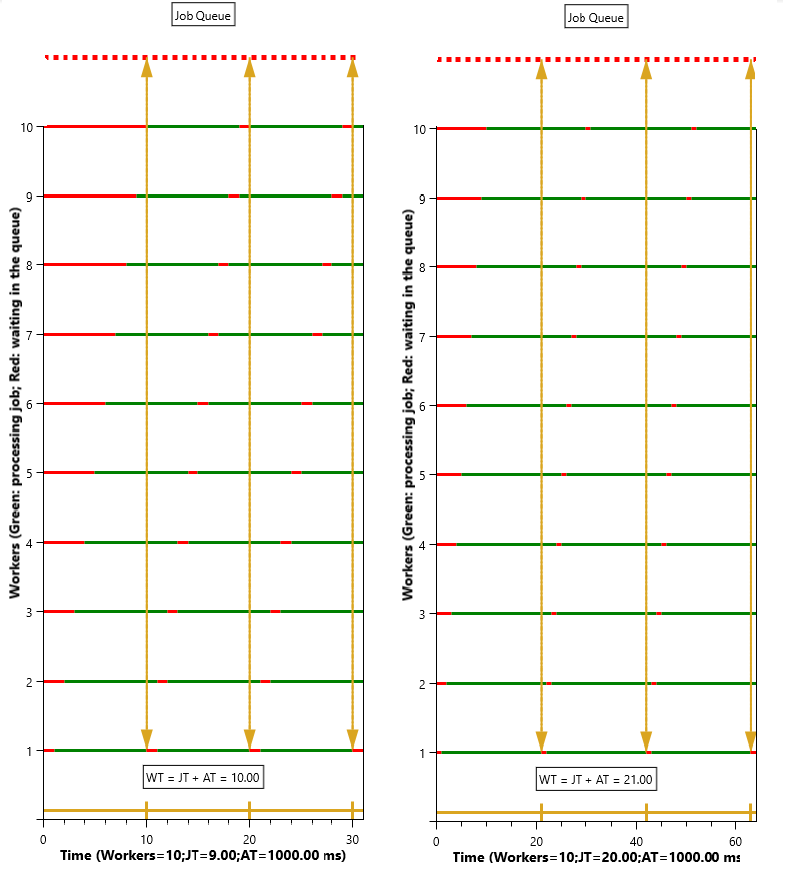
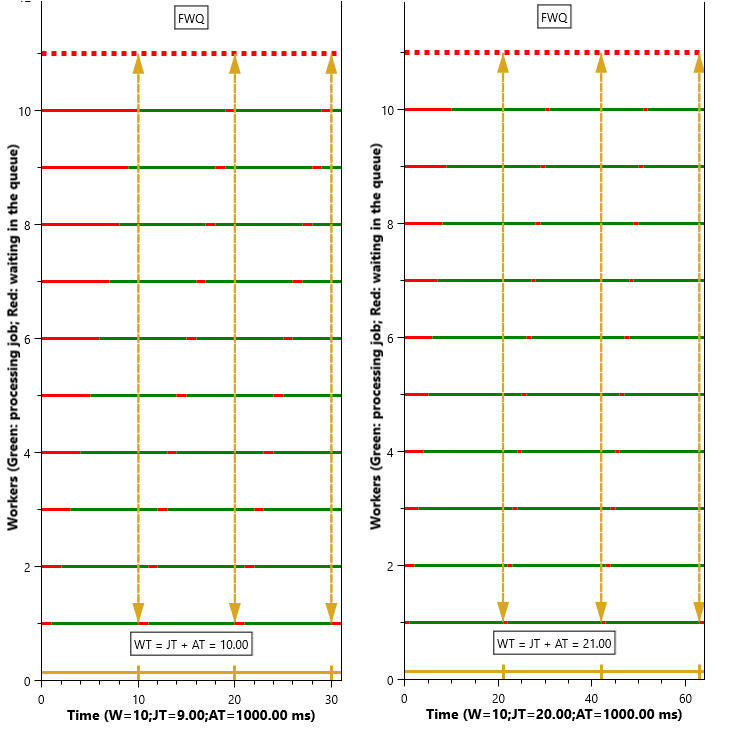
Finish WWT proofs

diff --git a/WRONJ/WRONJ/ViewModels/WRONJViewModel.cs b/WRONJ/WRONJ/ViewModels/WRONJViewModel.cs
@@ -514,7 +514,7 @@ namespace WRONJ.ViewModels
                 chart.Annotations.Add(
                     new TextAnnotation
                     {
-                        Text = "Job Queue",
+                        Text = "FWQ",
                         TextPosition = new DataPoint(maxX / 2, Workers + 1.5)
                     }
                 );

diff --git a/README.md b/README.md
@@ -13,10 +13,9 @@ In these cases, we may want to reduce the workload total time and improve the gr
 - [WRONJ Worker Time (WWT)](#wronj-worker-time-(wwt))
     - [WWT proof](#wwt-proof)
     - [WWT graphical proof (constant times)](#wwt-graphical-proof-(constant-times))
-- [More](#more)
 
 
-## WRONJ Conditions
+# WRONJ Conditions
 
  1. We have a grid with a number ***W*** of single-threaded worker processes (workers), all with the same computing power: they take the same time to compute the same job.
  1. The workload submitted to the grid is perfectly parallel.
@@ -24,46 +23,47 @@ In these cases, we may want to reduce the workload total time and improve the gr
  1. The grid uses another queue to manage the idle workers, the ***FWQ*** (Free Workers Queue). When a worker has finished its job, the grid add a reference of that worker to the end of the ***FWQ***.
  1. The ***JS*** (Job Scheduler) of the grid is a single-threaded process, that chooses the next job to execute from the ***JQ*** and assigns it to the first idle worker in the ***FWQ***. The ***at*** (assignment time) is the time it takes for the ***JS***  to complete this task for a job, and the ***AT*** (Assignment Time) is the average of all ***at*** in the workload.
  
- The ***at*** is made up of the scheduling algorithm time plus the time it takes to send the job data to the worker, probably over a network. A realistic set of values to these parameter would be ***AT***=1 millisecond for and ***w***=1000, but for the sake of clarity in most of the examples in this document we'll use a grid with only 10 workers and ***AT***=1 second, with a [FCFS](https://en.wikipedia.org/wiki/Scheduling_(computing)#First_come,_first_served) scheduling algorithm, like this one: 
+ The ***at*** is made up of the scheduling algorithm time plus the time it takes to send the job data to the worker, probably over a network. A realistic set of values to these parameter would be ***AT***=1 millisecond and ***W***=1000, but for the sake of clarity in most of the examples in this document we'll use a grid with only 10 workers and ***AT*** >= 100 milliseconds, with a [FCFS](https://en.wikipedia.org/wiki/Scheduling_(computing)#First_come,_first_served) scheduling algorithm, like this one: 
 
 ![alt text](https://raw.githubusercontent.com/jorgelasa/wronj/master/Images/beforeAssignment.png)
  
-In the samples, we'll use a different icon for each job, and a different color for each worker (ranging from red to blue). In the image above, we can see seven active workers computing a job, and three idle workers waiting for a job. The ***JS*** will now get the next job in the ***JS*** and assign it to the first worker in the ***FWQ*** (the orange one), making it an active worker:
+In the samples, we'll use a different icon for each job, and a different color for each worker (ranging from red to blue). In the image above, we can see seven active workers computing different jobs, and three idle workers waiting for a new job. The ***JS*** will now get the next job in the ***JS*** and assign it to the first worker in the ***FWQ*** (the orange one), making it an active worker:
 
 ![alt text](https://raw.githubusercontent.com/jorgelasa/wronj/master/Images/afterAssignment.png)
 
-The WRONJ problem occurs when there are active workers finishing its job at the time the ***JS*** is assigning a new job, so the ***FWQ*** will never be empty and the grid won't use 100% of its capacity, like this:
+The **WRONJ** problem occurs when there are active workers finishing its job at the time the ***JS*** is assigning a new job, so the ***FWQ*** will never be empty and the grid won't use 100% of its capacity, like this:
 
 ![alt text](https://raw.githubusercontent.com/jorgelasa/wronj/master/Images/finishJob.png)
 
 
-## Workload Definitions
+# Workload Definitions
  
-When we refer to times, we will use the same name to define individual and average times (using capital letters in the latter case):
+In some of the following concepts, we will use the same name to define individual and average values (using capital letters in the latter case):
 
  1. ***J*** : number of jobs in the workload.
- 1. ***FW*** : number of workers in the ***FWQ***.
- 1. ***AW*** : number of active workers: ***AW = W - FW***.
+ 1. ***fw*** (free workers): number of workers in the ***FWQ***.
+ 1. ***FW*** (Free Workers): average of all values of ***fw*** in the workload.
+ 1. ***aw*** (active workers): number of active workers: ***aw = W - fw***.
+ 1. ***AW*** (Active Workers): average of all values of ***aw*** in the workload: ***AW = W - FW***.
  1. ***jt*** (job time): computing time of a job in a worker.
- 1. ***fwqt*** (free worker queue time): time that the worker has been waiting in the ***FWQ*** until the ***JS*** assigned it a job. Its minimum value is ***at***
- 1. ***wt*** (worker time): time it takes a worker to process a job. It's ***wt = jt + fwqt***, so its minimum value is ***jt*** + ***at***.
- 1. ***JT*** (Job Time): average of all ***jt*** in the workload, 
+ 1. ***JT*** (Job Time): average of all ***jt*** in the workload. 
+ 1. ***fwqt*** (free worker queue time): time that the worker has been waiting in the ***FWQ*** until the ***JS*** assigned it a job. Its minimum value is ***at***.
  1. ***FWQT*** (Free Worker Queue  Time): average of all ***fwqt*** in the workload. Its minimum value is ***AT***.
+ 1. ***wt*** (worker time): time it takes a worker to process a job. It's ***wt = jt + fwqt***, so its minimum value is ***jt*** + ***at***.
  1. ***WT*** (Worker Time): average of all ***wt*** in the workload. ***WT = JT + FWQT*** and its minimum value is ***JT*** + ***AT***.
- 1. ***TT*** (Total Time): is the time it takes the grid to process all the jobs in the workload. When ***J*** >> ***W***, this time will be ***&#x2243; J*** * ***WT / W***.
+ 1. We'll say that ***the grid is full*** when ***J*** >> ***W***.
+ 1. ***TT*** (Total Time): is the time it takes the grid to process all the jobs in the workload. When the grid is full, this time will be ***&#x2243; J*** * ***WT / W***.
 
-We'll say that ***the grid is full*** when ***J*** >> ***W***.
 
+# Ideal grid vs WRONJ grid
 
-## Ideal grid vs WRONJ grid
+An ideal grid is one where ***at = 0***: all workers are always active when the grid is full. In such a grid, the equality ***WT = JT*** holds, and the total time of a workload will be ***&#x2243; J*** * ***JT / W***.
 
-An ideal grid is one where ***at = 0***: all workers are always active when the grid is full. In such a grid, the equality ***WT = JT*** holds, and the total time of a workload with ***J*** >> ***W*** will be ***&#x2243; J*** * ***JT / W***.
+A **WRONJ** grid is one that meets the [conditions](#wronj-conditions) above, with ***at > 0***. The ***WT*** in these grids has an odd behavior, as we are about to see.
 
-A WRONJ grid is one that meets the [conditions](#wronj-conditions) above, with ***at > 0***. The ***WT*** in these grids has an odd behavior, as we are about to see.
+# WRONJ Worker Time (WWT)
 
-## WRONJ Worker Time (WWT)
-
-The WRONJ problem is due to this dual value of ***WT*** in a WRONJ grid when it's full:
+The **WRONJ** problem is due to this dual value of ***WT*** in a **WRONJ** grid when it's full:
 
 1. If ***JT >= (W -1) * AT*** , then ***WT*** is approximately equal to its minimum value:
     - ***WT &#x2243; JT + AT***.
@@ -77,9 +77,9 @@ When the grid is full the total time of a workoad is ***TT&#x2243; J * WT / W***
 2. If ***JT < (W -1) * AT*** , then: 
     - ***TT &#x2243; J * AT*** 
 
-In a grid with a fixed number ***W*** of workers, the WRONJ problem occurs when the workload ***JT*** falls bellow this limit ***(W -1) * AT***. In fact, no matter how low ***JT*** may go, ***WT*** remains fixed at the value ***W * AT***.
+In a grid with a fixed number ***W*** of workers, the **WRONJ** problem occurs when the workload ***JT*** falls bellow this limit ***(W -1) * AT***. In fact, no matter how low ***JT*** may go, ***WT*** remains fixed at the value ***W * AT*** and ***TT*** remains fixed at ***J * AT***.
 
-The next chart shows ***WT*** as a function of ***JT***, in an ideal grid and in a WRONJ grid, both with 1000 workers. The ***AT*** value in the WRONJ grid is one millisecond. If ***JT*** is 1.5 seconds or is equal to 0.999 seconds (i.e. the limit value ***(W -1) * AT***), then ***WT*** in both grids is very similar. But when ***JT*** is 0.5 second, ***WT*** is twice as long in the WRONJ grid than in the ideal grid:
+The next chart shows ***WT*** as a function of ***JT***, in an ideal grid and in a **WRONJ** grid, both with 1000 workers. The ***AT*** value in the **WRONJ** grid is one millisecond. If ***JT*** is 1.5 seconds or is equal to 0.999 seconds (i.e. the limit value ***(W -1) * AT***), then ***WT*** in both grids is very similar. But when ***JT*** is 0.5 second, ***WT*** is twice as long in the **WRONJ** grid than in the ideal grid:
  
 
 ![alt text](https://raw.githubusercontent.com/jorgelasa/wronj/master/Images/JTLimit.png)
@@ -89,73 +89,95 @@ In a grid with a fixed value ***JT*** for the workloads, we'll flip the previous
 - If ***W*** <= ***JT / AT + 1*** , then ***WT &#x2243; JT + AT***.
 - If ***W*** > ***JT / AT + 1*** , then ***WT &#x2243; W * AT***. 
 
- The next chart shows the scalability problem with WRONJ grids. The workload has a million jobs where ***JT*** is a second and a half, the ***AT*** in the WRONJ grid is one millisecond, and we are increasing the number of workers: 1000, 1500, 2000. In this case the grid is full, so   and in the ideal grid, the total time is inversely proportional to ***W***. But in the WRONJ grid, once we reach the limit value of 1501 workers (***= JT / AT + 1***), the total time remains at the fixed value of 1000 seconds (***= JT * AT***):
+ The next chart shows the scalability problem with **WRONJ** grids. The workload has a million jobs where ***JT*** is a second and a half, the ***AT*** in the **WRONJ** grid is one millisecond, and we are increasing the number of workers: 1000, 1500, 2000. In this case the grid is full, so in the ideal grid, the total time is inversely proportional to ***W***. But in the **WRONJ** grid, once we reach the limit value of 1501 workers (***= JT / AT + 1***), the total time remains at the fixed value of 1000 seconds (***= J * AT***):
 
 ![alt text](https://raw.githubusercontent.com/jorgelasa/wronj/master/Images/WLimit.png)
 
 
-### WWT proof
+## WWT proof
 
-To illutrate the proof, we'll use a grid with 10 workers and ***AT = 100 ms***. 
+To illutrate the proof, we'll use a full grid with 10 workers and ***AT = 100 ms***. 
 
 First, we define these two concepts:
 
- 1. ***tbe*** (time between endings): when a worker finishes its job, it's released and placed at the end of the ***FWQ***. The ***tbe*** is the elapsed time between the moment a worker finishes its job and the moment the last worker that was placed at the ***FWQ*** finished its own job. When the grid is full, then it's ***tbe &#x2243; JT / AW***.
+ 1. ***tbe*** (time between endings): when a worker finishes its job, it's released and placed at the end of the ***FWQ***. The ***tbe*** is the elapsed time between the moment a worker finishes its job and the moment the last worker that was placed at the ***FWQ*** finished its own job. The ***tbe*** increases when the times of jobs in the active workers increase, or when the number of ***aw*** decreases. The ***tbe*** decreases when the times of jobs in the active workers decrease, or when the number of ***aw*** increases.
  1. ***TBE*** (Time Between Endings): average of all ***tbe*** in the workload. 
 
-If ***JT / W > AT***, then when there is a idle worker in the ***FWQ***, normally no other worker will finish their job while the ***JS*** assigns a new job to that idle worker. The ***FWQ*** will be empty most of the time, and workers will only wait ***AT*** until they are assigned a new job, so ***WT &#x2243; JT + AT***.
+If ***JT / W >> AT***, then ***TBE >> AT*** and when there is a idle worker in the ***FWQ***, normally no other worker will finish their job while the ***JS*** assigns a new job to that idle worker. The ***FWQ*** will be empty most of the time, and workers will only wait ***AT*** until they are assigned a new job, so ***WT &#x2243; JT + AT***.
 
 In this case the ***FWQ*** is normally empty, so ***FW = 0***, ***AW = W*** and ***TBE = JT /W***. This is the case of our first sample, simulating a workload with ***JT = 5 seconds***. We can see that ***WWT***  tends to ***JT + AT*** (5.1 seconds), and ***TBE*** tends to ***JT / W*** (0.5 seconds):
 
 
 ![alt text](https://raw.githubusercontent.com/jorgelasa/wronj/master/Images/bigJTSimulation.gif)
 
-When ***JT / W < AT***, normally the ***FWQ*** won't be empty, and ***FW*** will change:
- - When ***FW*** increases, the ***TBE*** increases as well (cause ***AW*** decreases), and when ***AT < TBE*** the ***FWQ*** will shrink, and ***FW*** will decrease.
- - When ***FW*** decreases, the ***TBE*** decreases as well (cause ***AW*** increases), and when ***AT > TBE*** the ***FWQ*** will grow, and ***FW*** will increase.
+When ***JT / W << AT***, normally the ***FWQ*** won't be empty, and ***fw*** will change:
+ - When ***fw*** increases, the ***tbe*** increases as well (cause ***aw*** decreases), and when ***at < tbe*** the ***FWQ*** will shrink (it empties faster than it fills), so ***fw*** will decrease.
+ - When ***fw*** decreases, the ***tbe*** decreases as well (cause ***aw*** increases), and when ***at > tbe*** the ***FWQ*** will grow (it empties slower than it fills), so ***fw*** will increase.
  
-The grid will tend toward a state of equilibrium, where ***AT = TBE*** and ***FW*** and ***AW*** are constants:
- - ***AT = TBE &#x2243; JT / AW = JT / (W - FW)***
+In this way, the grid will tend toward a state of equilibrium where:
 
- Solving the previous equation, we have:
+ **1)** ***AT = TBE***.
+
+Although the variables ***jt*** and ***at*** are not independent of the variable ***aw***, we assume that these two formulas are valid:
+
+  **2)** ***TBE &#x2243; JT / AW***  
  
- - ***FW &#x2243; W - JT / AT***
- - ***FWQT = FW * AT  &#x2243; W * AT - JT***
+  **3)** ***FWQT &#x2243; FW * AT***
+
+And combining that formulas with the previous equality we have:
+
+ **4)** (From **1)** and **2)**): ***AT &#x2243; JT / AW = JT / (W - FW)***
  
- and finally:
+ **5)** (From **4)**): ***FW &#x2243; W - JT / AT***
+
+ **6)** (From **3)** and **5)**): ***FWQT &#x2243; W * AT - JT***
+ 
+ and finally, from the definition of ***WT*** and **6)**:
 
 - ***WT = FWQT + JT &#x2243; W * AT***
 
-The next sample shows this dynamic. ***JT = 0.5 seconds***, so ***WWT*** will tend to ***W * AT*** (1 second), and ***TBE*** tends to ***&#x2243; AT*** (0.1 seconds):
+The next sample shows the grid dynamics. The value of ***JT*** is set to 0.5 seconds, so ***WWT*** will tend to ***W * AT*** (1 second), and ***TBE*** tends to ***&#x2243; AT*** (0.1 seconds):
 
 ![alt text](https://raw.githubusercontent.com/jorgelasa/wronj/master/Images/smallJTSimulation.gif)
 
 We calculate the limit value for ***JT*** by equating the two values for ***WT*** :  ***JT + AT = W * AT***, so this limit is:
 - ***JT = (W - 1) * AT***
 
-### WWT graphical proof (constant times)
+## WWT graphical proof (constant times)
 
-- Time Diagram fot JT >= Limit :
+When ***at*** and ***jt*** are constant (and therefore ***AT=at*** and ***JT=jt***), then the two formulas for ***WWT*** become equalities. We'll show it using a grid with 10 workers and ***at = 1 second***. 
+
+First, the case where ***JT >= (W - 1) * AT***. The following simulations are set with ***JT*** equal to the limit ***(W - 1) * AT = 9 seconds***, 
 
 ![alt text](https://raw.githubusercontent.com/jorgelasa/wronj/master/Images/constantSimulation9.gif)
 
+and with ***JT = 20 seconds***:
+
 ![alt text](https://raw.githubusercontent.com/jorgelasa/wronj/master/Images/constantSimulation20.gif)
 
+As we can observe, ***WT*** are constant and equal to ***JT + AT*** in both cases, cause whenever a worker finishes its job, it finds the ***FWQ*** is empty and it only has to wait ***at*** for the next job. To better understand the behavior of a worker, check the following time diagrams for our grid of 10 workers:
 
 ![alt text](https://raw.githubusercontent.com/jorgelasa/wronj/master/Images/dt_gt_limit.png)
 
+The timeline of each worker is drawn in red when the worker is in the ***FWQ***, and in green when is processing a job. For the first worker only, some arrows are used. An upward pointing arrow is drawn from the time the worker completes a job  to the ***FWQ***, meaning that the worker is placed at the end of the ***FWQ***. When the ***JS*** is ready to assign it a new job, a downward pointing arrow is drawn from ***FWQ*** to the worker's timeline. The time between the arrows pointing down in these diagrams is always ***jt + fwqt***, so this time is the ***wt***. In cases like these, where ***jt*** exceeds the limit, ***fqwt*** is just ***at***. Then ***wt = jt + at*** and is constant because ***jt*** and ***at*** are constant, so:
+ 
+ - ***WT = JT + AT***
 
- - Time Diagram fot JT < Limit :
+ We also see why ***(W - 1) * AT*** is the limit value for ***JT***: with any other lesser value, the ***FWQ*** would not be empty when the worker finished its job.
+
+Now, we'll see two samples where ***JT < (W - 1) * AT***. The values for ***jt*** are 2 and 5 seconds:
 
 ![alt text](https://raw.githubusercontent.com/jorgelasa/wronj/master/Images/constantSimulation2.gif)
 
 ![alt text](https://raw.githubusercontent.com/jorgelasa/wronj/master/Images/constantSimulation5.gif)
 
+And here is the correspondent time diagram:
+
 ![alt text](https://raw.githubusercontent.com/jorgelasa/wronj/master/Images/dt_lt_limit.png) 
 
- 
+When the first worker queues at ***FWQ***, it has to wait there until the ***JS*** assigns a job to all the subsequent workers. Now we can clearly see the two parts of  ***wt*** :  ***jt*** and ***fwqt***, and how is the sum of these parts constant regardless of ***jt*** (when ***jt*** decreases, ***fqwt*** increases by the same amount) and equal to ***w * at***, so:
 
-<div id="more"></div>
+-  ***WT = W * AT***
 
-## More
+
 
